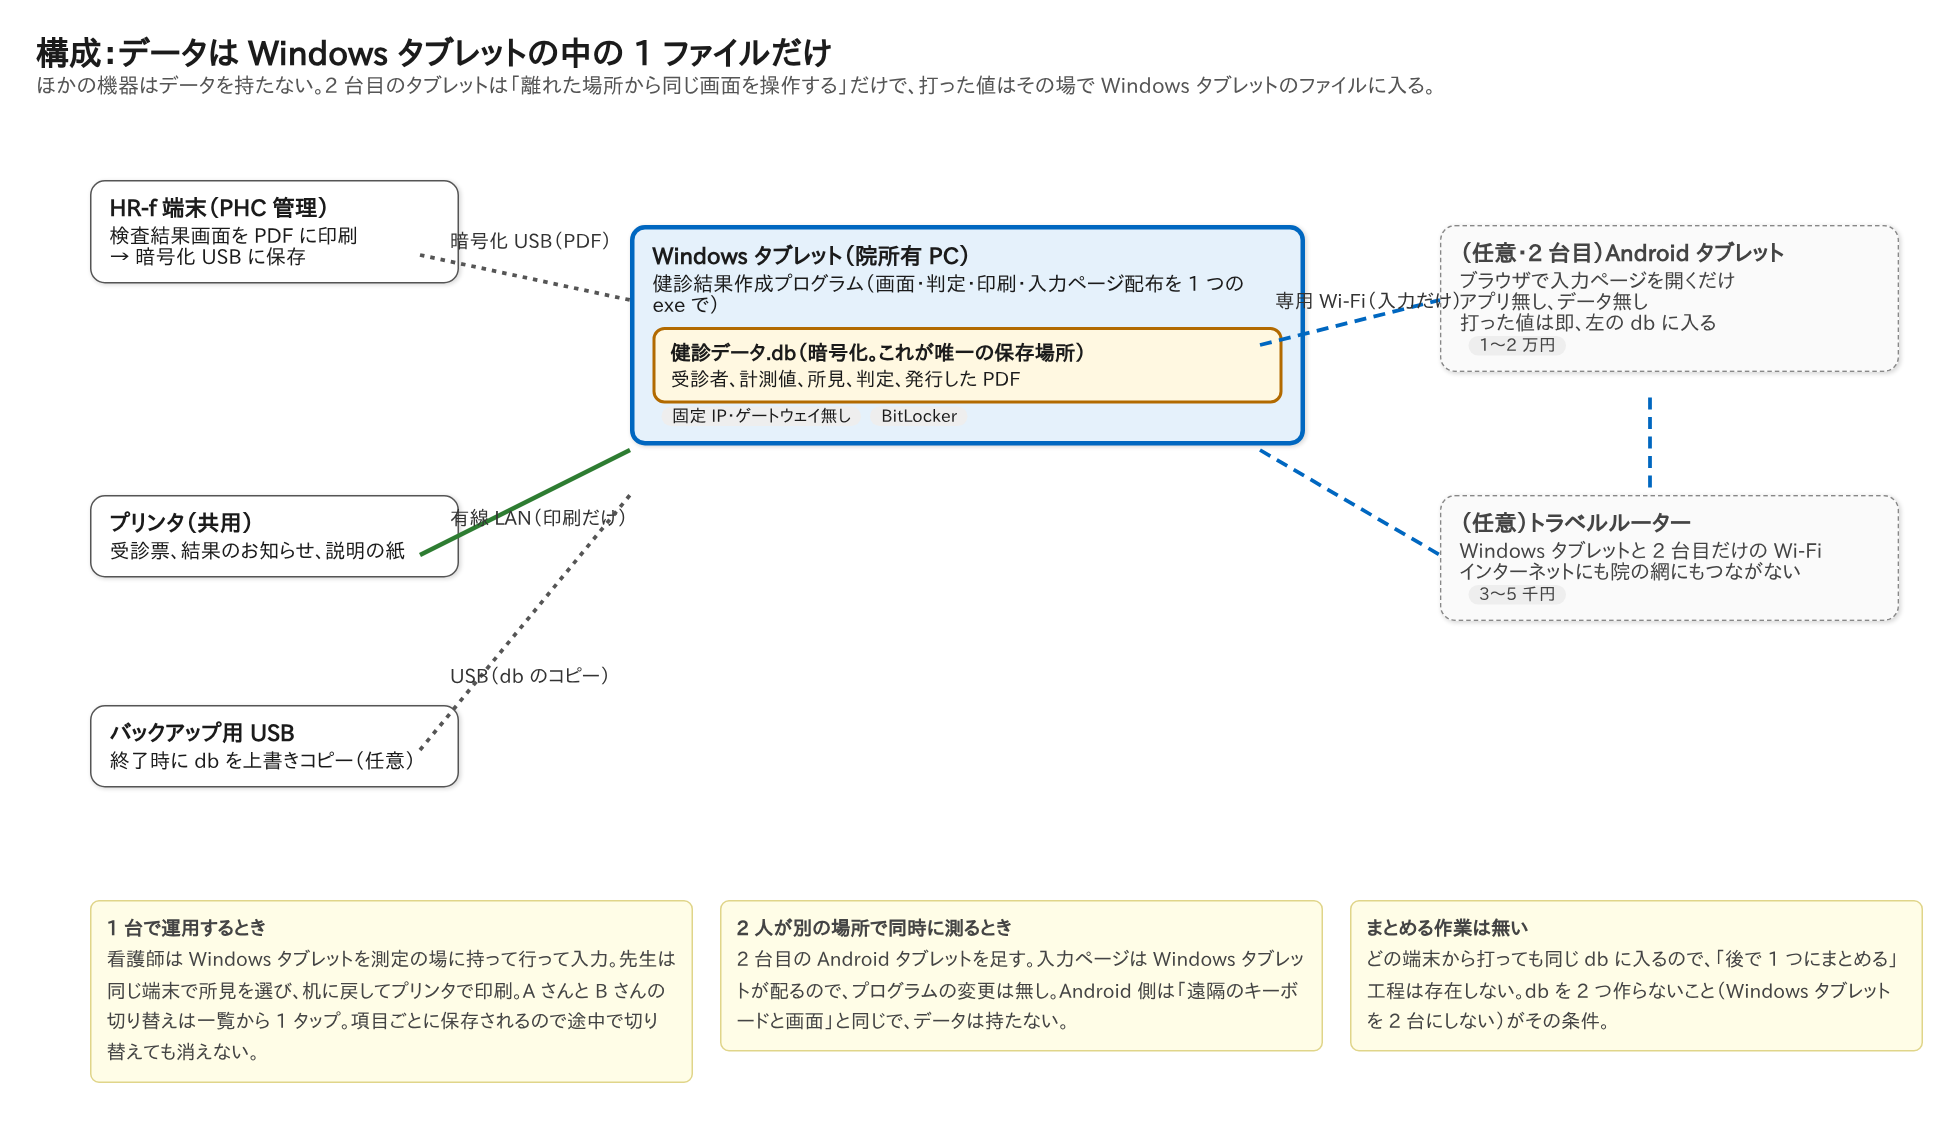
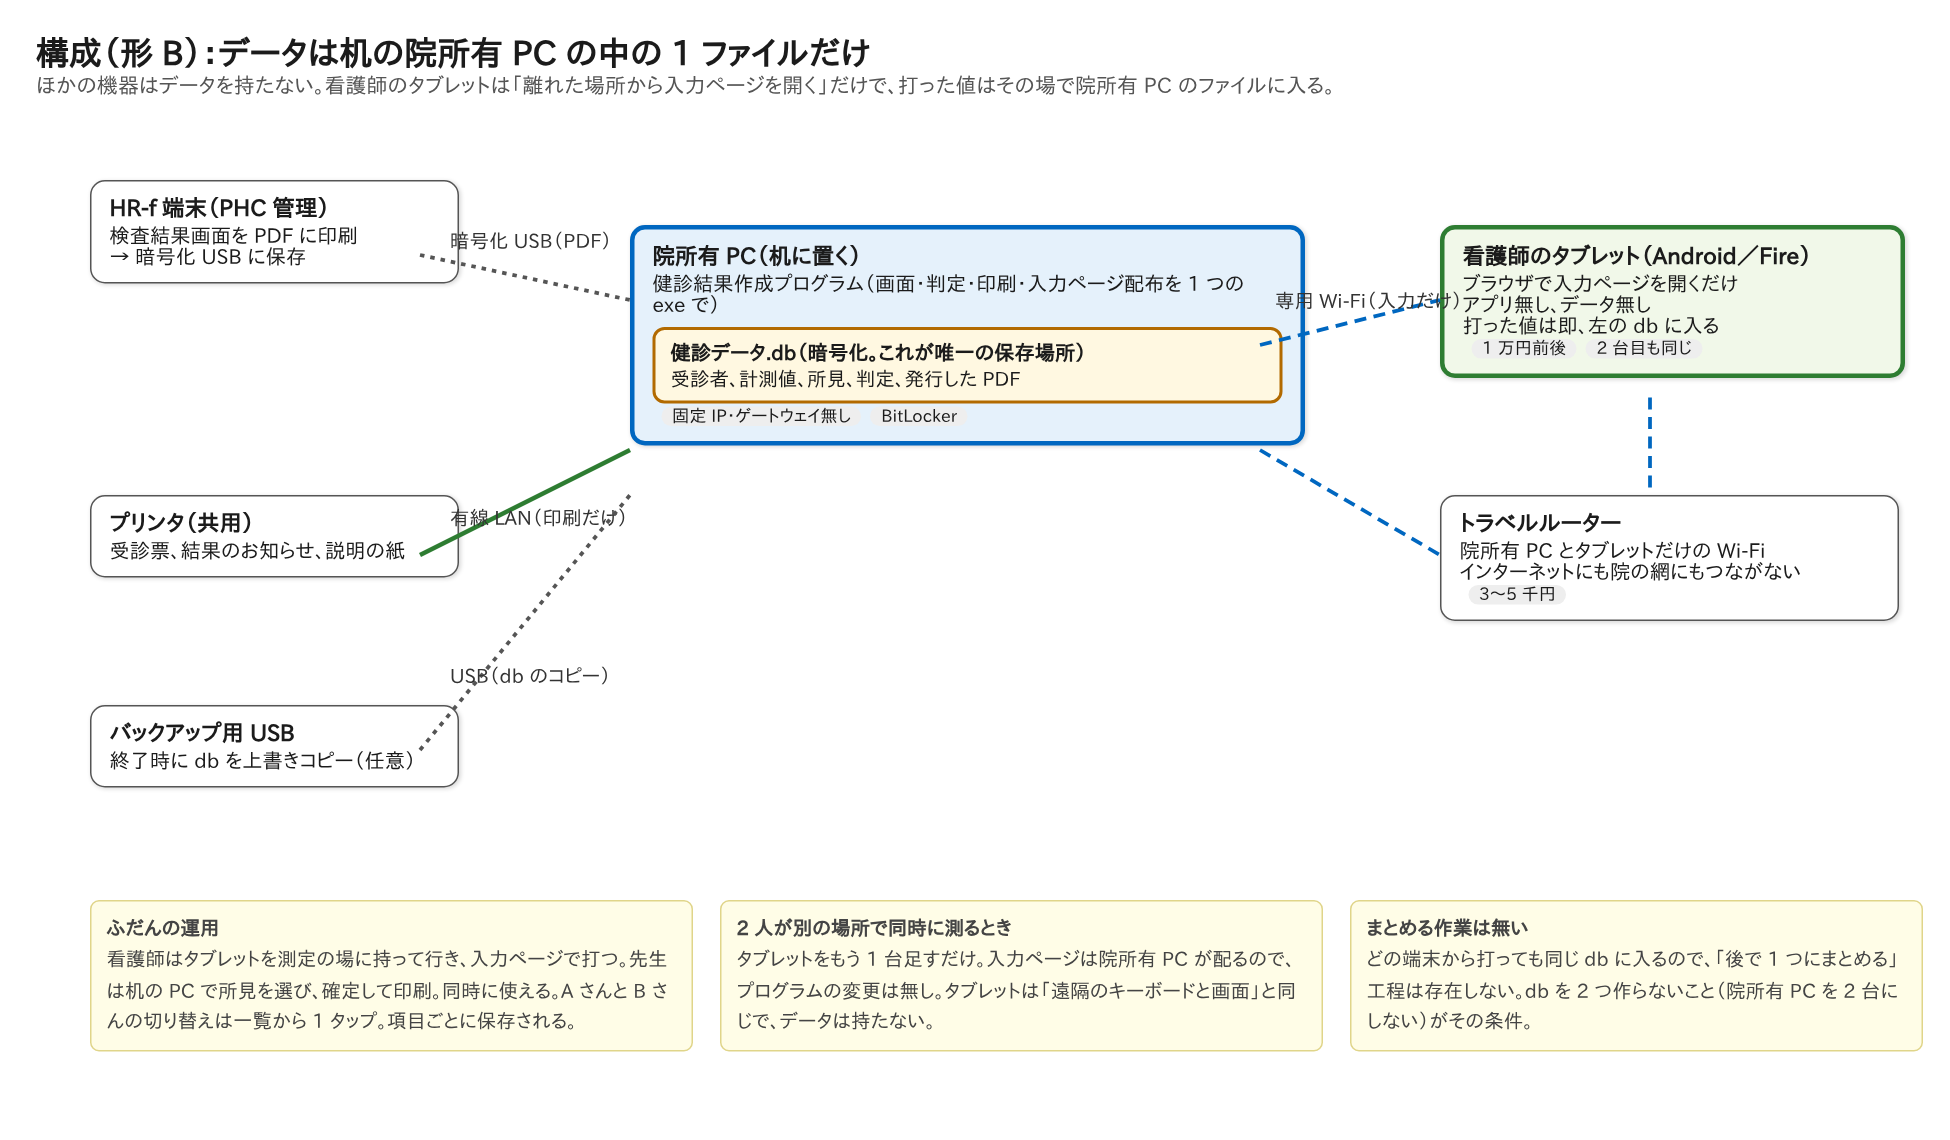
案件002：形 B（机の院所有 PC＋看護師の安いタブレット）に決定、機器構成図を更新
Claude-Session: https://claude.ai/code/session_012UADKEwnyb2YpTBS4V5hJq

diff --git a/docs/cases/002-health-checkup-report/要件.md b/docs/cases/002-health-checkup-report/要件.md
@@ -25,7 +25,7 @@
 
 ## 動かす場所
 
-- **院所有の Windows タブレット**（プリンタのあるネットワークに有線 LAN アダプタでゲートウェイ無しで接続。インターネットへの経路なし。患者情報を扱う）。技術方針どおり C# (.NET 8) self-contained のフォルダ 1 つ、インストール不要、管理者権限不要。
+- **院所有の PC**（机に置く小型デスクトップかノート。プリンタのあるネットワークに有線でゲートウェイ無しで接続。インターネットへの経路なし。患者情報を扱う）。技術方針どおり C# (.NET 8) self-contained のフォルダ 1 つ、インストール不要、管理者権限不要。
 - データは同じ PC（または院内の共有フォルダ）のファイル DB（SQLite）。インターネットには出さない。
 
 ## 実行時に AI は必要か
@@ -35,8 +35,10 @@
 
 ## 入力の方法（2026-11-04 決定。詳細は `入力方法の検討.md`）
 
-- **院所有 PC を Windows タブレット（キーボード付き）にし、その画面で入力する。** 測定の場に持って行き、机に戻して印刷。画面は 1280×800 とタッチ操作に合わせる。既定値＝正常、キーボードだけで進める、範囲外はその場で警告。
-- 2 人が同時に測るときの 2 台目として、安い Android タブレットのブラウザから院所有 PC の入力ページ（専用 Wi-Fi、PIN 付き）で入力できるようにしておく。値は同じ DB に直接入る。2 台目は現場で必要と分かってから買う。
+- **看護師は 1 万円前後の Android／Fire タブレットで入力する。** ブラウザで、机の院所有 PC が配る入力ページ（専用 Wi-Fi、PIN 付き）を開く。値は PC の DB に直接入る。タブレットにアプリもデータも置かない。
+- 入力ページは受診票の並び、既定値＝正常、テンキー表示、範囲外はその場で警告。スマホでも開ける。
+- 先生は机の PC の画面で所見を選び、確定・印刷する。PC の画面でも同じ入力ができる。
+- PC とタブレットは専用 Wi-Fi（トラベルルーターをアクセスポイントに。インターネットにも院の網にもつながない）。
 - 測定機器からの取り込みは行わない（費用の方針）。
 
 ## 入力（画面の項目）

diff --git a/docs/cases/002-health-checkup-report/入力方法の検討.md b/docs/cases/002-health-checkup-report/入力方法の検討.md
@@ -138,3 +138,21 @@
 - 画面を 1280×800 とタッチ操作に合わせる（ボタン・入力欄を大きめに）。
 - 低スペックでも動くよう PDF 生成を軽く作る。
 - 入力ページを配る機能は最初から持たせる（2 台目を足すときの変更を無くす）。
+
+## 最終決定（2026-11-04 先生）：形 B。机の院所有 PC ＋ 看護師が持ち歩く安いタブレット
+
+- 形 A（Windows タブレット 1 台が院所有 PC）は、持ち歩く端末を電カル側のネットワークにつなぐことになり問題が出る。採らない。
+- **形 B**：データの保存・判定・印刷は机の院所有 PC（有線でプリンタの網にゲートウェイ無しで接続）。看護師が持ち歩くタブレットは入力専用で、PC が配る入力ページをブラウザで開く。
+- 持ち歩くタブレットはデータを持たないので **Windows である必要は無い**。1 万円前後の Android／Fire タブレット（Wi-Fi 専用機）でよい。Windows 11・暗号化などのチェックは不要。
+- PC とタブレットは専用 Wi-Fi（トラベルルーター）。インターネットにも院の網にもつながない。タブレットは院の通常の Wi-Fi に登録しない。
+- 先生は机の PC で所見を選ぶ。看護師とは同時に使える。
+- 2 台目のタブレットを足すときも同じ仕組み（タブレット代だけ）。
+
+### 買うもの
+
+| 品 | 目安 | 条件 |
+|---|---|---|
+| 院所有 PC（小型デスクトップかノート） | 3〜6 万円（中古の法人向けなら 2 万円台） | Windows 11 Pro（BitLocker）。メモリ 8GB、保存領域 128GB 以上。有線 LAN の口（無ければ USB アダプタ）。USB の口 2 つ以上 |
+| タブレット | 1 万円前後 | Android か Fire。Wi-Fi 専用。8〜10 インチ。ブラウザが動けばよい |
+| トラベルルーター | 3〜5 千円 | アクセスポイントとして使う。インターネットにつながない |
+| USB バーコードリーダー（任意） | 3 千円程度 | 受診票の QR で受診者を開く |
